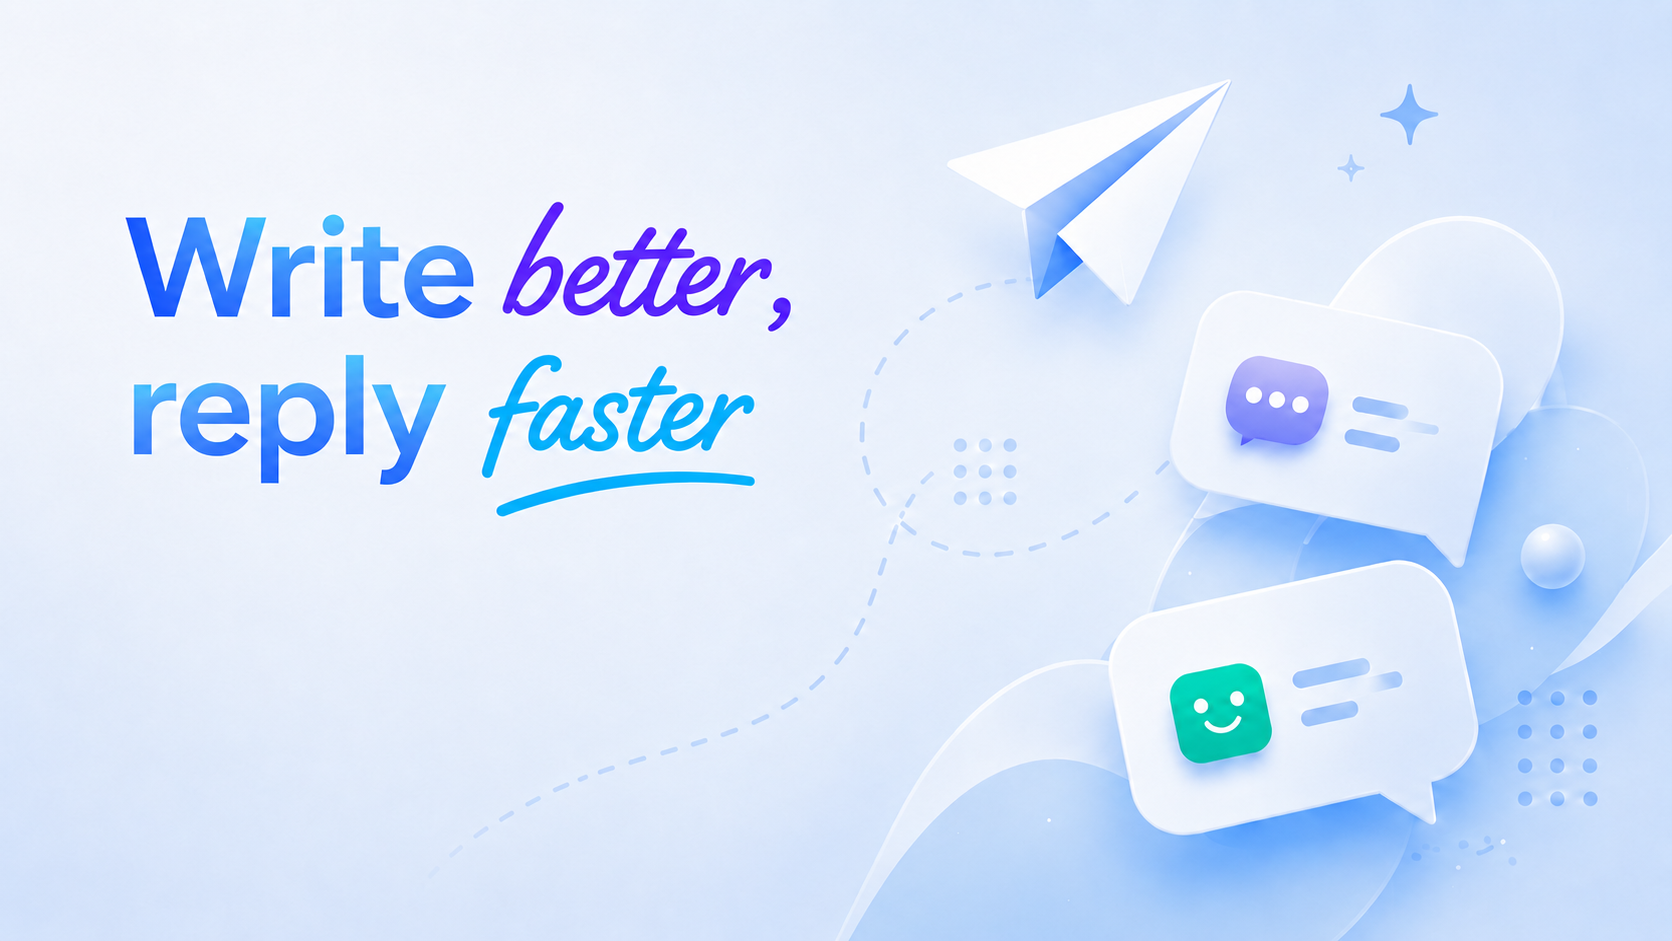
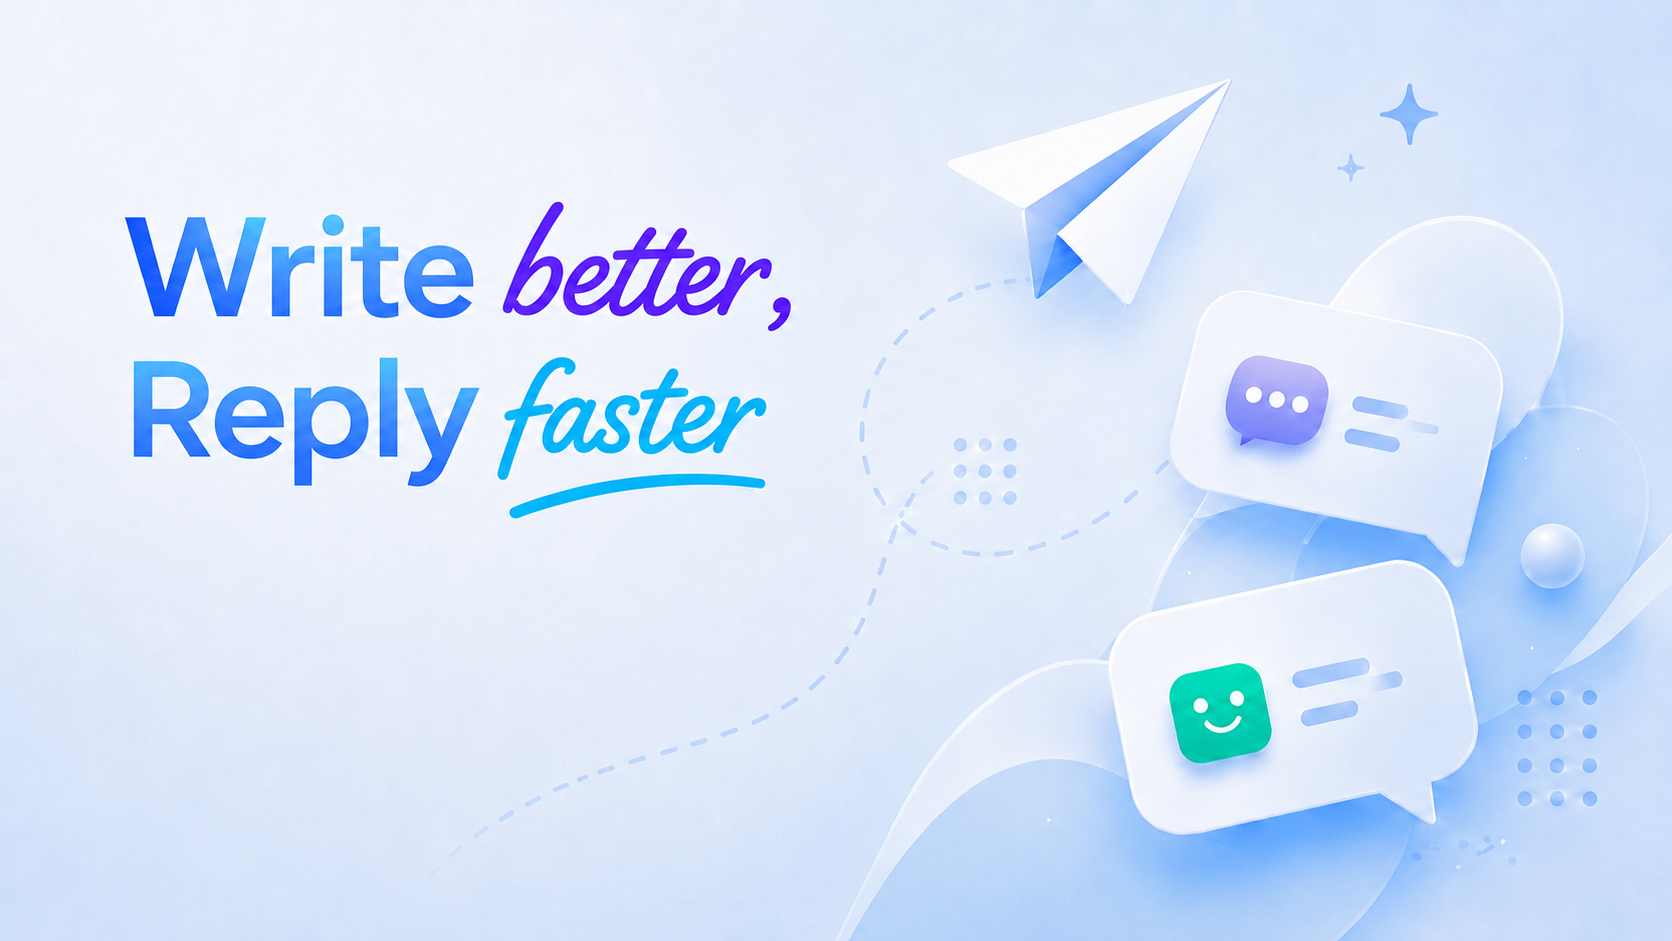
backened

Changed region(s): [[0.0622, 0.3698, 0.4665, 0.5547], [0.3732, 0.2774, 0.4354, 0.339]]

diff --git a/app/lib/core/theme/app_feature_theme.dart b/app/lib/core/theme/app_feature_theme.dart
@@ -12,11 +12,20 @@ extension AppFeatureTheme on AppFeature {
     AppFeature.guidance => AppColors.guidanceColor,
   };
 
+  /// Texture used as the fill of feature [GlassCard]s and home feature cards.
   String get backgroundImage => switch (this) {
     AppFeature.reply => 'assets/image/reply_background.png',
     AppFeature.polish => 'assets/image/polish_background.png',
     AppFeature.explain => 'assets/image/explain_background.png',
     AppFeature.guidance => 'assets/image/guidance_background.png',
+  };
+
+  /// Full-page background shown behind the content of each feature page.
+  String get pageBackgroundImage => switch (this) {
+    AppFeature.reply => 'assets/image/reply_page_backgroud.png',
+    AppFeature.polish => 'assets/image/polish_page_backgroud.png',
+    AppFeature.explain => 'assets/image/explain_page_backgroud.png',
+    AppFeature.guidance => 'assets/image/guidance_page_backgroud.png',
   };
 
   Color get lightTintColor => switch (this) {

diff --git a/app/lib/features/guidance/presentation/guidance_library_screen.dart b/app/lib/features/guidance/presentation/guidance_library_screen.dart
@@ -40,6 +40,7 @@ class GuidanceLibraryScreen extends ConsumerWidget {
       subtitle: 'Save and reuse your guidance.',
       headerImagePath: 'assets/icons/guidance.png',
       accentColor: _kColor,
+      backgroundImagePath: _feature.pageBackgroundImage,
       showBackButton: true,
       actions: [
         IconButton(

diff --git a/app/lib/features/polish/polish_screen.dart b/app/lib/features/polish/polish_screen.dart
@@ -113,6 +113,7 @@ class _PolishScreenState extends ConsumerState<PolishScreen> {
       subtitle: 'Make your English sound more natural.',
       headerImagePath: 'assets/icons/polish.png',
       accentColor: _kColor,
+      backgroundImagePath: _feature.pageBackgroundImage,
       actions: [
         IconButton(
           tooltip: 'Plans',

diff --git a/app/lib/features/reply/explain_screen.dart b/app/lib/features/reply/explain_screen.dart
@@ -85,6 +85,7 @@ class _ExplainScreenState extends ConsumerState<ExplainScreen> {
       subtitle: 'Understand the meaning and tone.',
       headerImagePath: 'assets/icons/explain.png',
       accentColor: _kColor,
+      backgroundImagePath: _feature.pageBackgroundImage,
       child: ListView(
         keyboardDismissBehavior: ScrollViewKeyboardDismissBehavior.onDrag,
         padding: const EdgeInsets.fromLTRB(16, 18, 16, 32),

diff --git a/app/lib/features/reply/reply_screen.dart b/app/lib/features/reply/reply_screen.dart
@@ -395,6 +395,7 @@ class _ReplyScreenState extends ConsumerState<ReplyScreen> {
       subtitle: 'Generate natural English replies.',
       headerImagePath: 'assets/icons/reply.png',
       accentColor: _kColor,
+      backgroundImagePath: _feature.pageBackgroundImage,
       actions: [
         IconButton(
           tooltip: 'Plans',